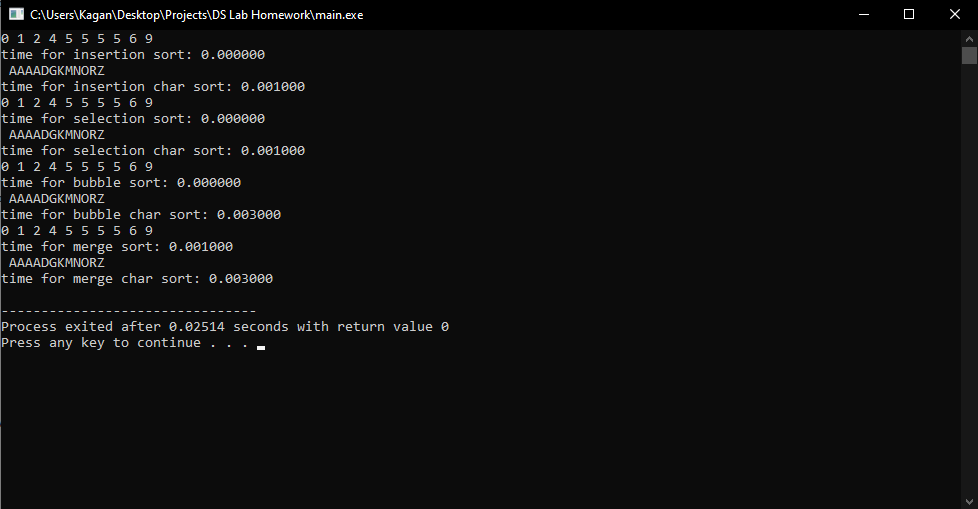
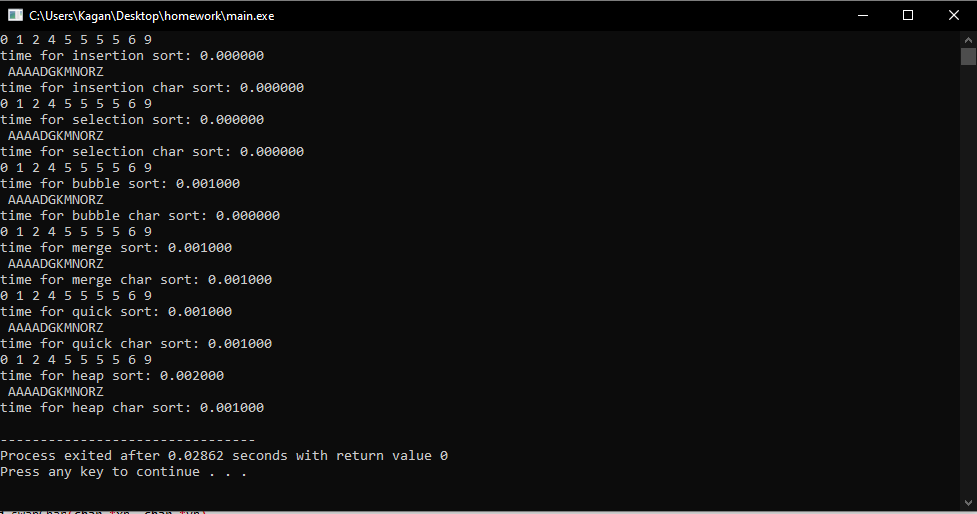
2019555456 Kağan Özdamar

diff --git a/Sorting/2019555456 Kağan Özdamar/main.c b/Sorting/2019555456 Kağan Özdamar/main.c
@@ -1,6 +1,6 @@
-#include <string.h>
 #include <stdio.h>
 #include <time.h>
+#include <string.h>
 #include <assert.h>
 
 
@@ -207,7 +207,130 @@ void printArray(int arr[], int n)
     for (i = 0; i < n; i++) 
         printf("%d ", arr[i]); 
     printf("\n"); } 
-   
+
+// quick sort and heap sort
+int partition(int arr[], int low, int high)
+{
+  int pivot = arr[high];
+  int i = (low - 1);
+  int j;
+  for ( j = low; j <= high - 1; j++)
+  {
+    if (arr[j] < pivot)
+    {
+      i++;
+      swap(&arr[i], &arr[j]);
+    }
+  }
+  swap(&arr[i + 1], &arr[high]);
+  return (i + 1);
+}
+
+void quick_sort(int arr[], int low, int high)
+{
+  if (low < high)
+  {
+    int pi = partition(arr, low, high);
+
+    quick_sort(arr, low, pi - 1);
+      quick_sort(arr, pi + 1, high);
+  }
+}
+char partitionChar(char arr[], int low, int high)
+{
+  int pivot = arr[high];
+
+  int i = (low - 1);
+  int j;
+  for ( j = low; j <= high - 1; j++)
+  {
+    if (arr[j] < pivot)
+    {
+      i++;
+      swapChar(&arr[i], &arr[j]);
+    }
+  }
+    swapChar(&arr[i + 1], &arr[high]);
+  return (i + 1);
+}
+void quick_sort_char(char arr[], int low, int high)
+{
+  if (low < high)
+  {
+    int pIndex = partitionChar(arr, low, high);
+
+    quick_sort_char(arr, low, pIndex - 1);
+    quick_sort_char(arr, pIndex + 1, high);
+  }
+}
+
+void heapify(int arr[], int n, int i)
+{
+  int largest = i;
+  int l = 2 * i + 1;
+  int r = 2 * i + 2;
+
+  if (l < n && arr[l] > arr[largest])
+    largest = l;
+
+  if (r < n && arr[r] > arr[largest])
+    largest = r;
+
+  if (largest != i)
+  {
+    swap(&arr[i], &arr[largest]);
+    heapify(arr, n, largest);
+  }
+}
+
+void heap_sort(int arr[], int n)
+{
+  int i, j;
+  for (i = n / 2 - 1; i >= 0; i--)
+  {
+    heapify(arr, n, i);
+  }
+
+  for (j = n - 1; j > 0; j--)
+  {
+    swap(&arr[0], &arr[j]);
+    heapify(arr, j, 0);
+  }
+}
+
+void heapify_char(char arr[], int n, int i)
+{
+  int largest = i;
+  int l = 2 * i + 1;
+  int r = 2 * i + 2;
+
+  if (l < n && arr[l] > arr[largest])
+    largest = l;
+
+  if (r < n && arr[r] > arr[largest])
+    largest = r;
+
+  if (largest != i)
+  {
+      swapChar(&arr[i], &arr[largest]);
+      heapify_char(arr, n, largest);
+  }
+}
+
+void heapSortChar(char arr[], int n)
+{
+  int i, j;
+  for (i = n / 2 - 1; i >= 0; i--)
+  {
+      heapify_char(arr, n, i);
+  }
+
+  for (j = n - 1; j > 0; j--)
+  {
+      swapChar(&arr[0], &arr[j]);
+      heapify_char(arr, j, 0);
+  }
+}
 
 
 int main() {
@@ -271,10 +394,41 @@ int main() {
     t = clock() - t;
     printArray(numZ, nZ); 
     printf("time for merge sort: %lf\n", ((double)t) / CLOCKS_PER_SEC);
-    mergeSortChar(nameZ, 0, charSizeZ - 1);
+    
+	mergeSortChar(nameZ, 0, charSizeZ - 1);
     t = clock() - t;
     printf("%s\n", nameZ);
     printf("time for merge char sort: %lf\n", ((double)t) / CLOCKS_PER_SEC);
+    
+	// quick sort and heap sort
+	int numA[] = { 2, 0, 1, 9, 5, 5, 5, 4, 5, 6 };
+	char nameA[] = "KAGAN OZDAMAR";
+    int nA = sizeof(numA) / sizeof(numA[0]); 
+    int charSizeA = strlen(nameA);
 
+    quick_sort(numA, 0, nA - 1);
+    t = clock() - t;
+    printArray(numA, nA); 
+    printf("time for quick sort: %lf\n", ((double)t) / CLOCKS_PER_SEC);
+    quick_sort_char(nameA, 0, charSizeA - 1);
+    t = clock() - t;
+    printf("%s\n", nameA);
+    printf("time for quick char sort: %lf\n", ((double)t) / CLOCKS_PER_SEC);
+
+
+    int numB[] = { 2, 0, 1, 9, 5, 5, 5, 4, 5, 6 }; 
+    char nameB[] = "KAGAN OZDAMAR"; 
+    int nB = sizeof(numB) / sizeof(numB[0]); 
+    int charSize5 = strlen(nameB);
+
+    heap_sort(numB, nB);
+    t = clock() - t;
+    printArray(numB, nB); 
+    printf("time for heap sort: %f\n", ((double)t) / CLOCKS_PER_SEC);
+    heapSortChar(nameB, charSize5);
+    t = clock() - t;
+    printf("%s\n", nameB);
+    printf("time for heap char sort: %f\n", ((double)t) / CLOCKS_PER_SEC);
+ 
     return 0;
-} 
+}
